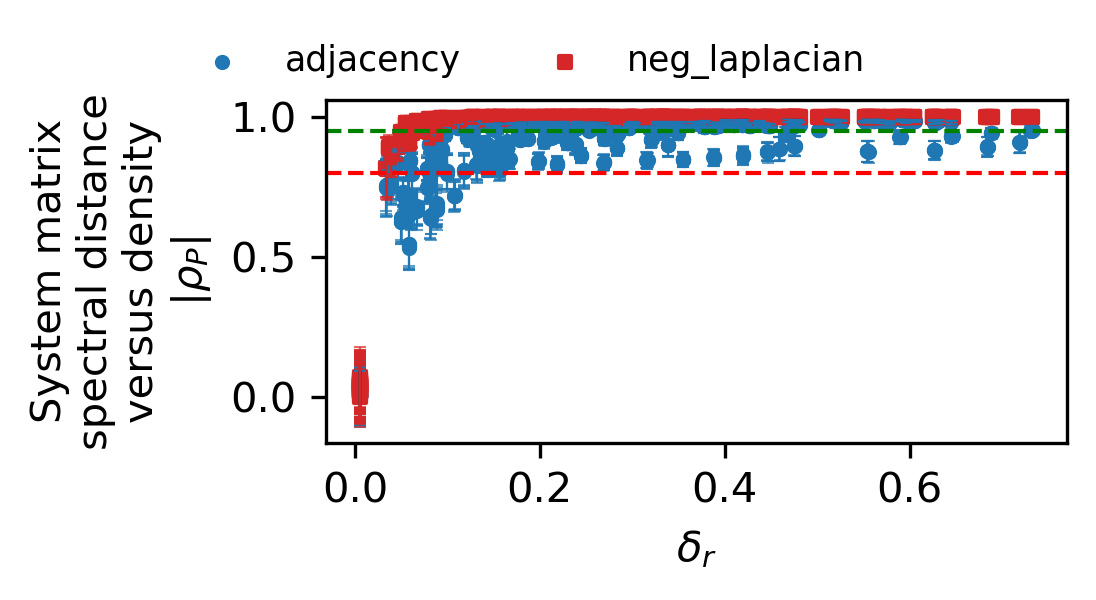
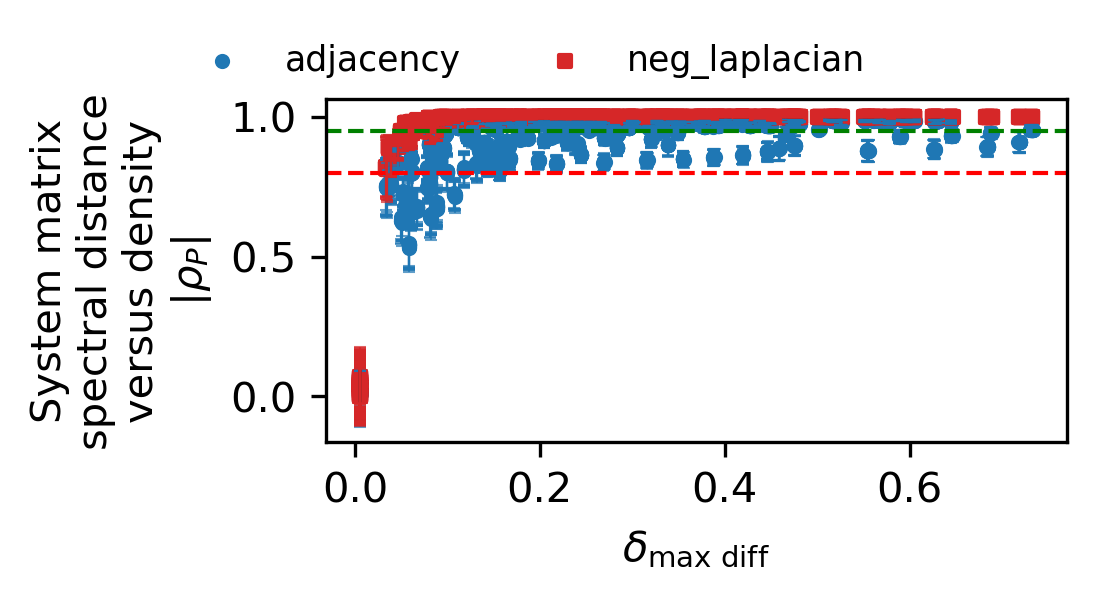
before adding an option for no-average plotting

diff --git a/plot_results.py b/plot_results.py
@@ -443,7 +443,7 @@ def make_scatter_plot(
         else:
             ax.set_ylabel(y_label_text + "\n" + ylabel)
 
-    axes[-1].set_xlabel("$\\delta_r$")
+    axes[-1].set_xlabel("$\\delta_{\\text{max diff}}$")
 
     # One shared legend in a single row at the top of all plots
     fig.legend(